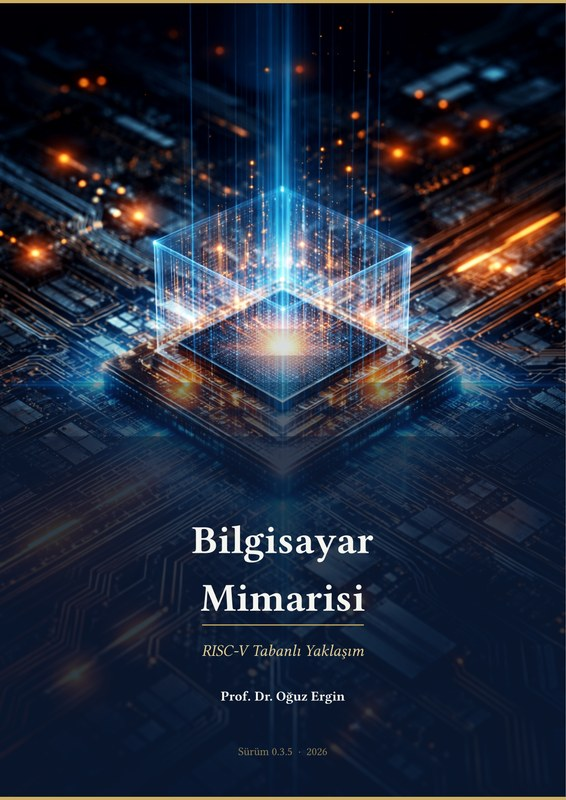
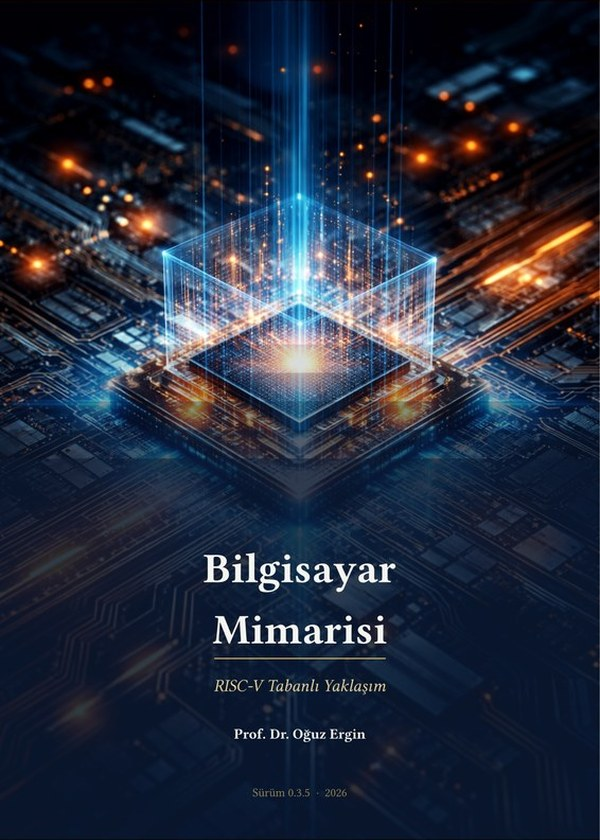
calismalar: kitap kapaklari 600x840 (5:7) standardina yeniden boyutlandirildi (BM ve Mikroislemciler birebir ayni boyutta); png -> jpg gecisi; cache v13

diff --git a/calismalar.html b/calismalar.html
@@ -8,7 +8,7 @@
   <link rel="icon" type="image/png" sizes="32x32" href="assets/img/favicon-32.png?v=5">
   <link rel="icon" type="image/png" sizes="192x192" href="assets/img/favicon-192.png?v=5">
   <link rel="apple-touch-icon" sizes="180x180" href="assets/img/favicon-192.png?v=5">
-  <link rel="stylesheet" href="style.css?v=12">
+  <link rel="stylesheet" href="style.css?v=13">
   <!-- Google tag (gtag.js) -->
   <script async src="https://www.googletagmanager.com/gtag/js?id=G-XQPWBWM9N0"></script>
   <script>
@@ -93,7 +93,7 @@
 
   <article class="book">
     <a href="https://mikroislemciler.oguzergin.net">
-      <img src="assets/img/kitap-mikroislemciler-kapak.png" alt="Mikroişlemciler — kapak">
+      <img src="assets/img/kitap-mikroislemciler-kapak.jpg" alt="Mikroişlemciler — kapak">
     </a>
     <h3>Mikroişlemciler</h3>
     <p class="meta">2026 · 252 sf · Açık erişim · ISBN 978-625-00-5838-1</p>

diff --git a/calismalar/projeler.html b/calismalar/projeler.html
@@ -8,7 +8,7 @@
   <link rel="icon" type="image/png" sizes="32x32" href="../assets/img/favicon-32.png?v=5">
   <link rel="icon" type="image/png" sizes="192x192" href="../assets/img/favicon-192.png?v=5">
   <link rel="apple-touch-icon" sizes="180x180" href="../assets/img/favicon-192.png?v=5">
-  <link rel="stylesheet" href="../style.css?v=12">
+  <link rel="stylesheet" href="../style.css?v=13">
   <!-- Google tag (gtag.js) -->
   <script async src="https://www.googletagmanager.com/gtag/js?id=G-XQPWBWM9N0"></script>
   <script>

diff --git a/belgeler.html b/belgeler.html
@@ -8,7 +8,7 @@
   <link rel="icon" type="image/png" sizes="32x32" href="assets/img/favicon-32.png?v=5">
   <link rel="icon" type="image/png" sizes="192x192" href="assets/img/favicon-192.png?v=5">
   <link rel="apple-touch-icon" sizes="180x180" href="assets/img/favicon-192.png?v=5">
-  <link rel="stylesheet" href="style.css?v=12">
+  <link rel="stylesheet" href="style.css?v=13">
   <!-- Google tag (gtag.js) -->
   <script async src="https://www.googletagmanager.com/gtag/js?id=G-XQPWBWM9N0"></script>
   <script>

diff --git a/destekci-ol.html b/destekci-ol.html
@@ -8,7 +8,7 @@
   <link rel="icon" type="image/png" sizes="32x32" href="assets/img/favicon-32.png?v=5">
   <link rel="icon" type="image/png" sizes="192x192" href="assets/img/favicon-192.png?v=5">
   <link rel="apple-touch-icon" sizes="180x180" href="assets/img/favicon-192.png?v=5">
-  <link rel="stylesheet" href="style.css?v=12">
+  <link rel="stylesheet" href="style.css?v=13">
   <!-- Google tag (gtag.js) -->
   <script async src="https://www.googletagmanager.com/gtag/js?id=G-XQPWBWM9N0"></script>
   <script>

diff --git a/hakkimda.html b/hakkimda.html
@@ -8,7 +8,7 @@
   <link rel="icon" type="image/png" sizes="32x32" href="assets/img/favicon-32.png?v=5">
   <link rel="icon" type="image/png" sizes="192x192" href="assets/img/favicon-192.png?v=5">
   <link rel="apple-touch-icon" sizes="180x180" href="assets/img/favicon-192.png?v=5">
-  <link rel="stylesheet" href="style.css?v=12">
+  <link rel="stylesheet" href="style.css?v=13">
   <!-- Google tag (gtag.js) -->
   <script async src="https://www.googletagmanager.com/gtag/js?id=G-XQPWBWM9N0"></script>
   <script>

diff --git a/hukuki-surec.html b/hukuki-surec.html
@@ -8,7 +8,7 @@
   <link rel="icon" type="image/png" sizes="32x32" href="assets/img/favicon-32.png?v=5">
   <link rel="icon" type="image/png" sizes="192x192" href="assets/img/favicon-192.png?v=5">
   <link rel="apple-touch-icon" sizes="180x180" href="assets/img/favicon-192.png?v=5">
-  <link rel="stylesheet" href="style.css?v=12">
+  <link rel="stylesheet" href="style.css?v=13">
   <!-- Google tag (gtag.js) -->
   <script async src="https://www.googletagmanager.com/gtag/js?id=G-XQPWBWM9N0"></script>
   <script>

diff --git a/index.html b/index.html
@@ -8,7 +8,7 @@
   <link rel="icon" type="image/png" sizes="32x32" href="assets/img/favicon-32.png?v=5">
   <link rel="icon" type="image/png" sizes="192x192" href="assets/img/favicon-192.png?v=5">
   <link rel="apple-touch-icon" sizes="180x180" href="assets/img/favicon-192.png?v=5">
-  <link rel="stylesheet" href="style.css?v=12">
+  <link rel="stylesheet" href="style.css?v=13">
   <!-- Google tag (gtag.js) -->
   <script async src="https://www.googletagmanager.com/gtag/js?id=G-XQPWBWM9N0"></script>
   <script>

diff --git a/program.html b/program.html
@@ -8,7 +8,7 @@
   <link rel="icon" type="image/png" sizes="32x32" href="assets/img/favicon-32.png?v=5">
   <link rel="icon" type="image/png" sizes="192x192" href="assets/img/favicon-192.png?v=5">
   <link rel="apple-touch-icon" sizes="180x180" href="assets/img/favicon-192.png?v=5">
-  <link rel="stylesheet" href="style.css?v=12">
+  <link rel="stylesheet" href="style.css?v=13">
   <!-- Google tag (gtag.js) -->
   <script async src="https://www.googletagmanager.com/gtag/js?id=G-XQPWBWM9N0"></script>
   <script>

diff --git a/sarkilar.html b/sarkilar.html
@@ -8,7 +8,7 @@
   <link rel="icon" type="image/png" sizes="32x32" href="assets/img/favicon-32.png?v=5">
   <link rel="icon" type="image/png" sizes="192x192" href="assets/img/favicon-192.png?v=5">
   <link rel="apple-touch-icon" sizes="180x180" href="assets/img/favicon-192.png?v=5">
-  <link rel="stylesheet" href="style.css?v=12">
+  <link rel="stylesheet" href="style.css?v=13">
   <!-- Google tag (gtag.js) -->
   <script async src="https://www.googletagmanager.com/gtag/js?id=G-XQPWBWM9N0"></script>
   <script>

diff --git a/yanimdakiler.html b/yanimdakiler.html
@@ -8,7 +8,7 @@
   <link rel="icon" type="image/png" sizes="32x32" href="assets/img/favicon-32.png?v=5">
   <link rel="icon" type="image/png" sizes="192x192" href="assets/img/favicon-192.png?v=5">
   <link rel="apple-touch-icon" sizes="180x180" href="assets/img/favicon-192.png?v=5">
-  <link rel="stylesheet" href="style.css?v=12">
+  <link rel="stylesheet" href="style.css?v=13">
   <!-- Google tag (gtag.js) -->
   <script async src="https://www.googletagmanager.com/gtag/js?id=G-XQPWBWM9N0"></script>
   <script>

diff --git a/yapay-oguz.html b/yapay-oguz.html
@@ -8,7 +8,7 @@
   <link rel="icon" type="image/png" sizes="32x32" href="assets/img/favicon-32.png?v=5">
   <link rel="icon" type="image/png" sizes="192x192" href="assets/img/favicon-192.png?v=5">
   <link rel="apple-touch-icon" sizes="180x180" href="assets/img/favicon-192.png?v=5">
-  <link rel="stylesheet" href="style.css?v=12">
+  <link rel="stylesheet" href="style.css?v=13">
   <!-- Google tag (gtag.js) -->
   <script async src="https://www.googletagmanager.com/gtag/js?id=G-XQPWBWM9N0"></script>
   <script>

diff --git a/yasal.html b/yasal.html
@@ -8,7 +8,7 @@
   <link rel="icon" type="image/png" sizes="32x32" href="assets/img/favicon-32.png?v=5">
   <link rel="icon" type="image/png" sizes="192x192" href="assets/img/favicon-192.png?v=5">
   <link rel="apple-touch-icon" sizes="180x180" href="assets/img/favicon-192.png?v=5">
-  <link rel="stylesheet" href="style.css?v=12">
+  <link rel="stylesheet" href="style.css?v=13">
   <!-- Google tag (gtag.js) -->
   <script async src="https://www.googletagmanager.com/gtag/js?id=G-XQPWBWM9N0"></script>
   <script>
